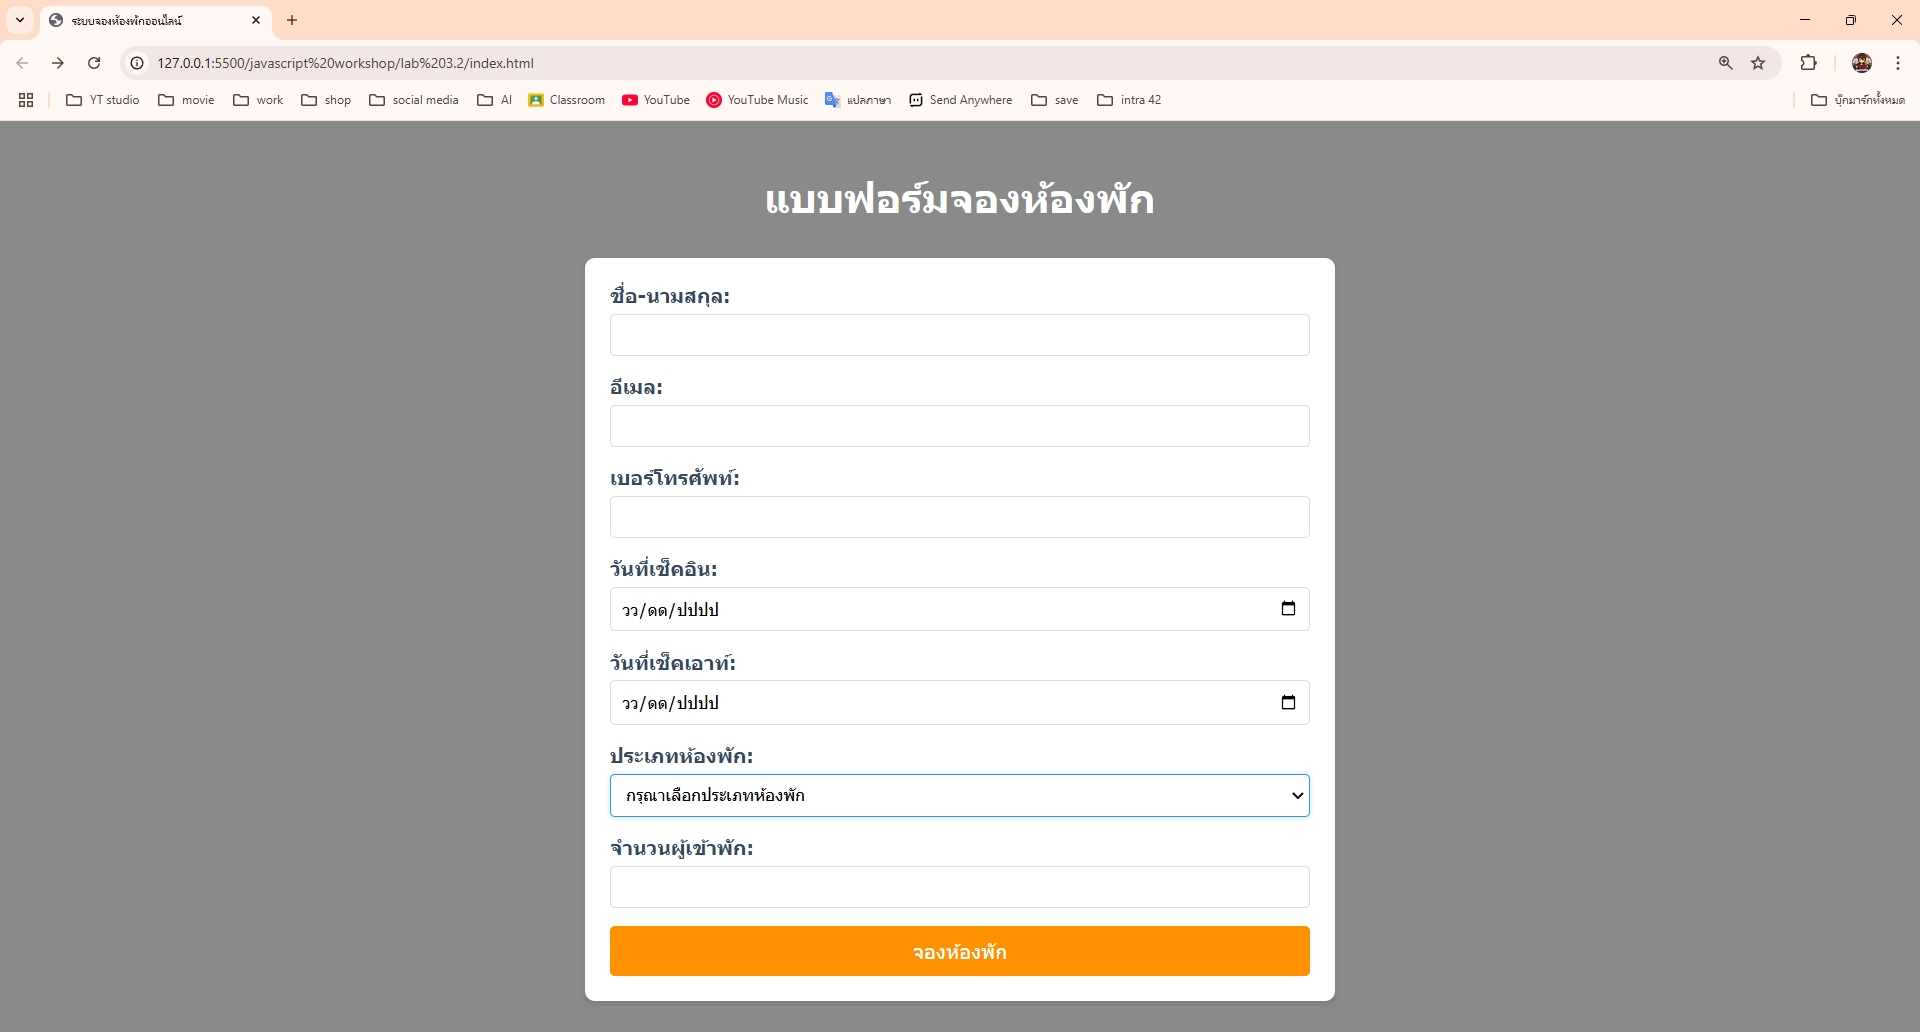
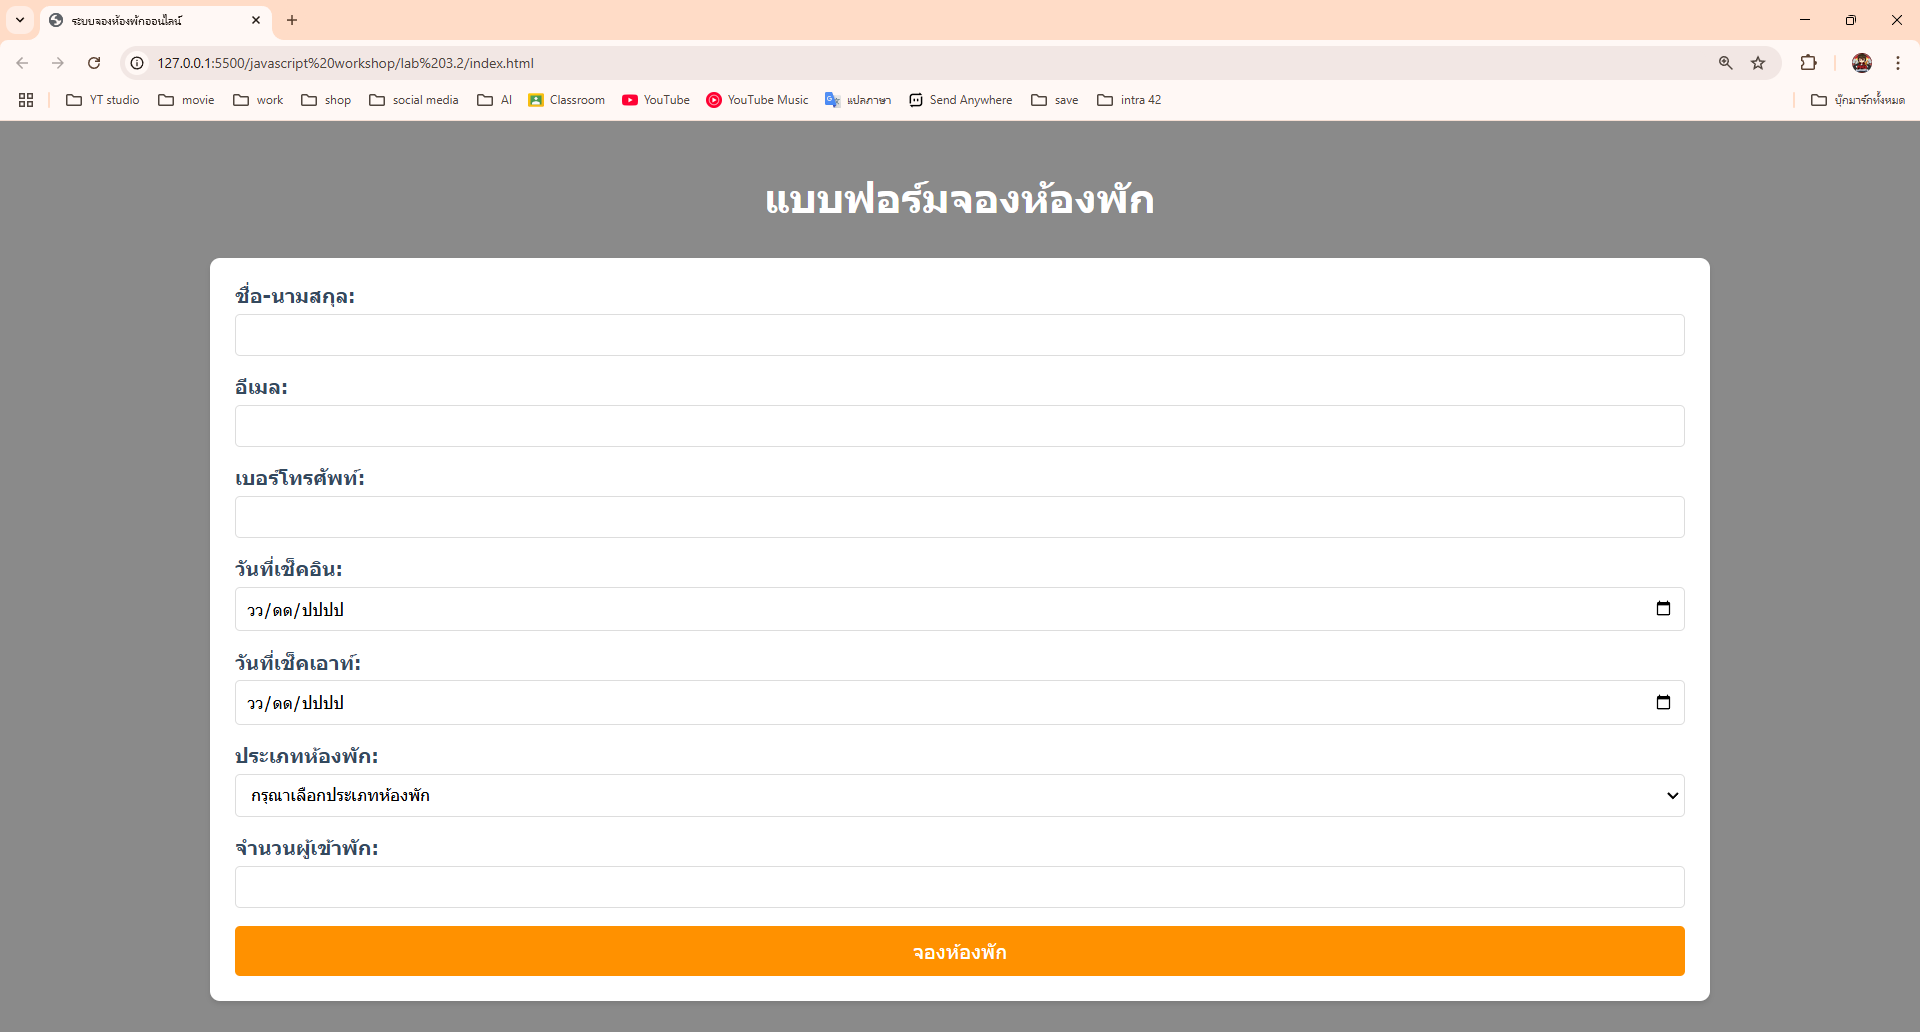
LAB 3.2.2

Changed region(s): [[0.0938, 0.2481, 0.4375, 0.9922], [0.6562, 0.2481, 0.9062, 0.9922]]

diff --git a/javascript workshop/lab 3.2/index.html b/javascript workshop/lab 3.2/index.html
@@ -7,7 +7,7 @@
     <style>
         body {
             font-family: 'Sarabun', sans-serif;
-            max-width: 600px;
+            max-width: 1200px;
             margin: 0 auto;
             padding: 20px;
             background-color: #8a8a8a;
@@ -118,5 +118,75 @@
 
         <button type="submit">จองห้องพัก</button>
     </form>
-</body>
+    <script>
+        document.getElementById('bookingForm').addEventListener('submit', function(e) {
+            e.preventDefault();
+            
+            // ตรวจสอบวันที่
+            const checkin = new Date(document.getElementById('checkin').value);
+            const checkout = new Date(document.getElementById('checkout').value);
+            const today = new Date();
+            
+            if (checkin < today) {
+                alert('กรุณาเลือกวันเช็คอินที่ยังไม่ผ่านมา');
+                return;
+            }
+            
+            if (checkout <= checkin) {
+                alert('วันเช็คเอาท์ต้องมาหลังวันเช็คอิน');
+                return;
+            }
+            
+            // ตรวจสอบรูปแบบเบอร์โทร
+            const phone = document.getElementById('phone').value;
+            const phoneRegex = /^[0-9]{10}$/;
+            if (!phoneRegex.test(phone)) {
+                alert('กรุณากรอกเบอร์โทรศัพท์ให้ถูกต้อง (10 หลัก)');
+                return;
+            }
+            
+            // คำนวณจำนวนวันที่พัก
+            const days = Math.ceil((checkout - checkin) / (1000 * 60 * 60 * 24));
+            
+            // แสดงสรุปการจอง
+            const roomtype = document.getElementById('roomtype');
+            const roomtypeText = roomtype.options[roomtype.selectedIndex].text;
+            
+            const summary = `
+                สรุปการจอง:
+                - ชื่อผู้จอง: ${document.getElementById('fullname').value}
+                - ประเภทห้อง: ${roomtypeText}
+                - วันที่เข้าพัก: ${checkin.toLocaleDateString('th-TH')}
+                - วันที่ออก: ${checkout.toLocaleDateString('th-TH')}
+                - จำนวนวันที่พัก: ${days} วัน
+                - จำนวนผู้เข้าพัก: ${document.getElementById('guests').value} ท่าน
+            `;
+            
+            if (confirm(summary + '\n\nยืนยันการจองห้องพัก?')) {
+                alert('จองห้องพักเรียบร้อยแล้ว');
+                this.reset();
+            }
+        });
+    
+        // เพิ่มการตรวจสอบวันที่แบบ Real-time
+        document.getElementById('checkin').addEventListener('change', function() {
+            document.getElementById('checkout').min = this.value;
+        });
+    
+        // จำกัดจำนวนผู้เข้าพักตามประเภทห้อง
+        document.getElementById('roomtype').addEventListener('change', function() {
+            const guestsInput = document.getElementById('guests');
+            if (this.value === 'standard') {
+                guestsInput.max = 2;
+            } else if (this.value === 'deluxe') {
+                guestsInput.max = 3;
+            } else if (this.value === 'suite') {
+                guestsInput.max = 4;
+            }
+            
+            if (guestsInput.value > guestsInput.max) {
+                guestsInput.value = guestsInput.max;
+            }
+        });
+    </script>
 </html 

diff --git a/javascript-workshop.md b/javascript-workshop.md
@@ -1314,10 +1314,201 @@ const checkPassword = () => {
 
 ### บันทึกผลการทดลอง 3.2.3
 ```html
-[บันทึกโค้ด ที่นี่]
+<!DOCTYPE html>
+<html lang="th">
+<head>
+    <meta charset="UTF-8">
+    <meta name="viewport" content="width=device-width, initial-scale=1.0">
+    <title>ระบบจองห้องพักออนไลน์</title>
+    <style>
+        body {
+            font-family: 'Sarabun', sans-serif;
+            max-width: 1200px;
+            margin: 0 auto;
+            padding: 20px;
+            background-color: #8a8a8a;
+        }
+
+        h1 {
+            color: #ffffff;
+            text-align: center;
+            margin-bottom: 30px;
+        }
+
+        form {
+            background-color: white;
+            padding: 20px;
+            border-radius: 8px;
+            box-shadow: 0 2px 4px rgba(0,0,0,0.1);
+        }
+
+        div {
+            margin-bottom: 15px;
+        }
+
+        label {
+            display: block;
+            margin-bottom: 5px;
+            color: #34495e;
+            font-weight: bold;
+        }
+
+        input, select {
+            width: 100%;
+            padding: 8px;
+            border: 1px solid #ddd;
+            border-radius: 4px;
+            box-sizing: border-box;
+        }
+
+        input:focus, select:focus {
+            outline: none;
+            border-color: #3498db;
+            box-shadow: 0 0 5px rgba(52,152,219,0.3);
+        }
+
+        button {
+            background-color: #ff9100;
+            color: white;
+            padding: 10px 20px;
+            border: none;
+            border-radius: 4px;
+            cursor: pointer;
+            width: 100%;
+            font-size: 16px;
+        }
+
+        button:hover {
+            background-color: #3498db;
+        }
+
+        @media (max-width: 480px) {
+            body {
+                padding: 10px;
+            }
+        }
+    </style>
+</head>
+<body>
+    <h1>แบบฟอร์มจองห้องพัก</h1>
+    <form id="bookingForm">
+        <div>
+            <label for="fullname">ชื่อ-นามสกุล:</label>
+            <input type="text" id="fullname" name="fullname" required>
+        </div>
+
+        <div>
+            <label for="email">อีเมล:</label>
+            <input type="email" id="email" name="email" required>
+        </div>
+
+        <div>
+            <label for="phone">เบอร์โทรศัพท์:</label>
+            <input type="tel" id="phone" name="phone" required>
+        </div>
+
+        <div>
+            <label for="checkin">วันที่เช็คอิน:</label>
+            <input type="date" id="checkin" name="checkin" required>
+        </div>
+
+        <div>
+            <label for="checkout">วันที่เช็คเอาท์:</label>
+            <input type="date" id="checkout" name="checkout" required>
+        </div>
+
+        <div>
+            <label for="roomtype">ประเภทห้องพัก:</label>
+            <select id="roomtype" name="roomtype" required>
+                <option value="">กรุณาเลือกประเภทห้องพัก</option>
+                <option value="standard">ห้องมาตรฐาน</option>
+                <option value="deluxe">ห้องดีลักซ์</option>
+                <option value="suite">ห้องสวีท</option>
+            </select>
+        </div>
+
+        <div>
+            <label for="guests">จำนวนผู้เข้าพัก:</label>
+            <input type="number" id="guests" name="guests" min="1" max="4" required>
+        </div>
+
+        <button type="submit">จองห้องพัก</button>
+    </form>
+    <script>
+        document.getElementById('bookingForm').addEventListener('submit', function(e) {
+            e.preventDefault();
+            
+            // ตรวจสอบวันที่
+            const checkin = new Date(document.getElementById('checkin').value);
+            const checkout = new Date(document.getElementById('checkout').value);
+            const today = new Date();
+            
+            if (checkin < today) {
+                alert('กรุณาเลือกวันเช็คอินที่ยังไม่ผ่านมา');
+                return;
+            }
+            
+            if (checkout <= checkin) {
+                alert('วันเช็คเอาท์ต้องมาหลังวันเช็คอิน');
+                return;
+            }
+            
+            // ตรวจสอบรูปแบบเบอร์โทร
+            const phone = document.getElementById('phone').value;
+            const phoneRegex = /^[0-9]{10}$/;
+            if (!phoneRegex.test(phone)) {
+                alert('กรุณากรอกเบอร์โทรศัพท์ให้ถูกต้อง (10 หลัก)');
+                return;
+            }
+            
+            // คำนวณจำนวนวันที่พัก
+            const days = Math.ceil((checkout - checkin) / (1000 * 60 * 60 * 24));
+            
+            // แสดงสรุปการจอง
+            const roomtype = document.getElementById('roomtype');
+            const roomtypeText = roomtype.options[roomtype.selectedIndex].text;
+            
+            const summary = `
+                สรุปการจอง:
+                - ชื่อผู้จอง: ${document.getElementById('fullname').value}
+                - ประเภทห้อง: ${roomtypeText}
+                - วันที่เข้าพัก: ${checkin.toLocaleDateString('th-TH')}
+                - วันที่ออก: ${checkout.toLocaleDateString('th-TH')}
+                - จำนวนวันที่พัก: ${days} วัน
+                - จำนวนผู้เข้าพัก: ${document.getElementById('guests').value} ท่าน
+            `;
+            
+            if (confirm(summary + '\n\nยืนยันการจองห้องพัก?')) {
+                alert('จองห้องพักเรียบร้อยแล้ว');
+                this.reset();
+            }
+        });
+    
+        // เพิ่มการตรวจสอบวันที่แบบ Real-time
+        document.getElementById('checkin').addEventListener('change', function() {
+            document.getElementById('checkout').min = this.value;
+        });
+    
+        // จำกัดจำนวนผู้เข้าพักตามประเภทห้อง
+        document.getElementById('roomtype').addEventListener('change', function() {
+            const guestsInput = document.getElementById('guests');
+            if (this.value === 'standard') {
+                guestsInput.max = 2;
+            } else if (this.value === 'deluxe') {
+                guestsInput.max = 3;
+            } else if (this.value === 'suite') {
+                guestsInput.max = 4;
+            }
+            
+            if (guestsInput.value > guestsInput.max) {
+                guestsInput.value = guestsInput.max;
+            }
+        });
+    </script>
+</html 
 ```
 [รูปผลการทดลองที่ 3.2.3]
-
+![lab3.2.3](Screenshot/3.2.3.png)
 
 ## คำแนะนำเพิ่มเติม
 - ทดลองเขียนโค้ดทุกตัวอย่างด้วยตัวเอง
